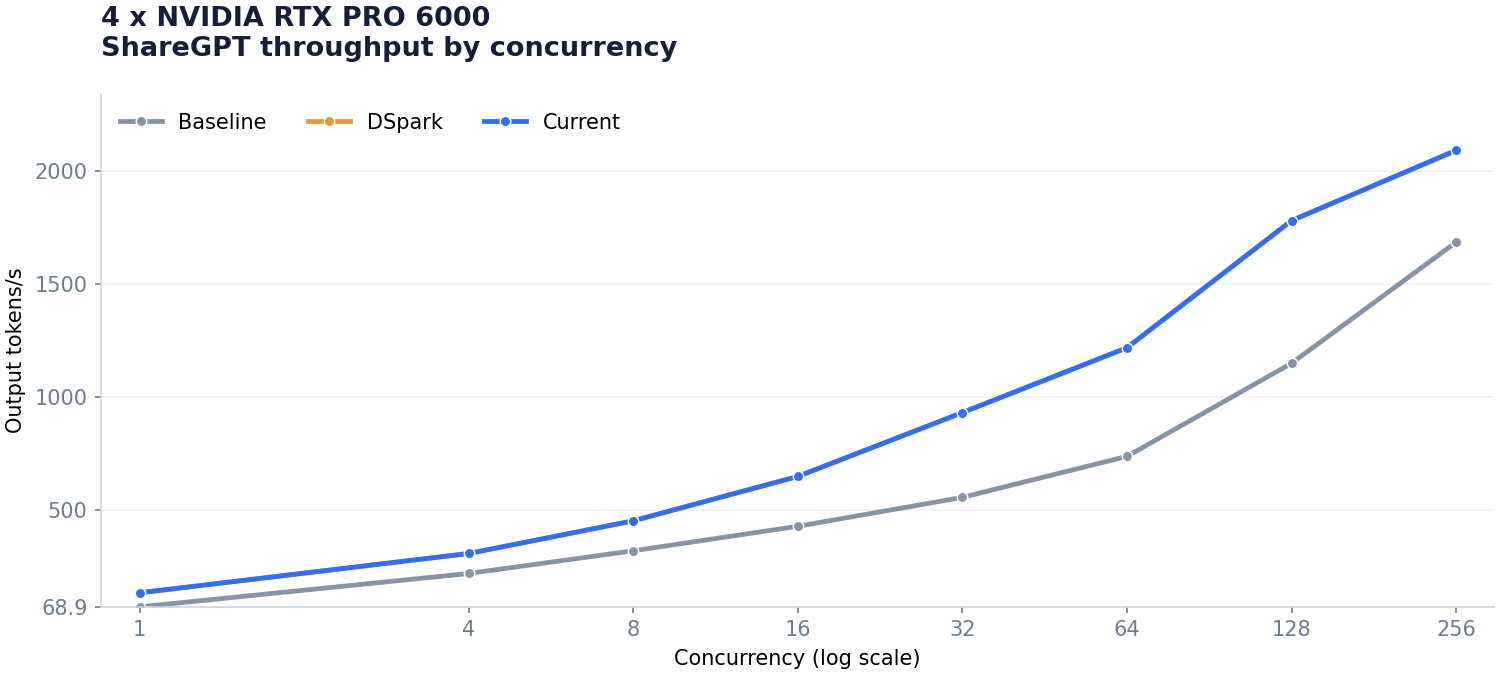
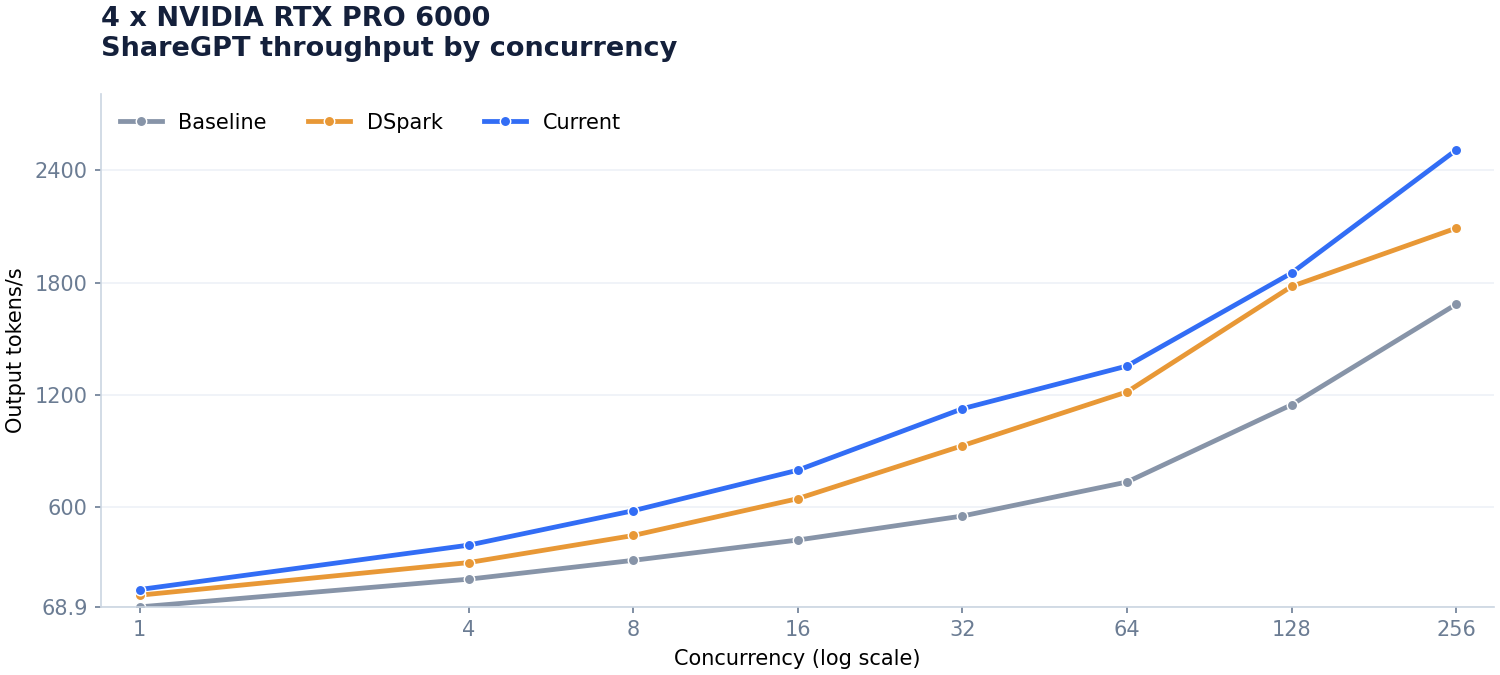
Extend four GPU expert kernels

diff --git a/4-nvidia-rtx-pro-6000/CHANGELOG.md b/4-nvidia-rtx-pro-6000/CHANGELOG.md
@@ -4,11 +4,9 @@ The patch is cumulative against `vllm/vllm-openai:v0.32.0`; every working milest
 
 FlashInfer 0.7.1 replaces the bundled 0.7.0.post1 for runtime page-size support, and both the sm120 compatibility patch and `--block-size 64` are required.
 
-## 1. DSpark decoding
+## 2. Ninety-six local experts
 
-- Reuse three-token adaptive DSpark with local argmax reduction to verify multiple tokens per target pass without gathering the full vocabulary.
-- Raise GPU memory utilization to 97% because DSpark's larger CUDA graph allocation leaves no KV-cache blocks at the default 92%.
--    --enable-expert-parallel
+- Extend the small-batch expert kernels to 96 local experts because TP4 previously fell back to DeepGEMM's 128-row padding.
 
 Requirements, on a fresh vLLM image:
 
@@ -43,18 +41,19 @@ vllm serve deepseek-ai/DeepSeek-V4.1-Flash-1017 \
 
 | Concurrency | Prompts | Output t/s | p95 TTFT (ms) | p95 TPOT (ms) |
 |---:|---:|---:|---:|---:|
-| 1 | 128 | 131.3 | 134.1 | 9.31 |
-| 4 | 128 | 305.4 | 139.3 | 14.95 |
-| 8 | 128 | 450.0 | 232.0 | 20.57 |
-| 16 | 128 | 646.7 | 306.9 | 29.31 |
-| 32 | 128 | 929.3 | 433.6 | 36.76 |
-| 64 | 128 | 1216.4 | 788.1 | 50.59 |
-| 128 | 256 | 1779.2 | 1669.4 | 76.92 |
-| 256 | 512 | 2090.1 | 5044.1 | 513.58 |
+| 1 | 128 | 161.5 | 134.2 | 7.58 |
+| 4 | 128 | 398.5 | 127.7 | 12.47 |
+| 8 | 128 | 582.3 | 227.3 | 15.83 |
+| 16 | 128 | 798.6 | 284.7 | 23.55 |
+| 32 | 128 | 1126.5 | 498.2 | 32.29 |
+| 64 | 128 | 1354.5 | 876.9 | 54.17 |
+| 128 | 256 | 1850.7 | 1527.0 | 79.03 |
+| 256 | 512 | 2506.8 | 2850.4 | 141.25 |
 
 ## Accepted progress
 
 | Stage | Change | c1 t/s | Revision |
 |---:|---|---:|---|
 | 0 | Four-GPU baseline | 68.9 | [`98e3fb6`](https://github.com/alvarobartt/DeepSeek-V4.1-Flash-RTX-PRO-6000/tree/98e3fb632bb37dea066d2f7d9cb6f1b4a436cb4d) |
-| 1 | DSpark decoding | 131.3 | This revision |
+| 1 | DSpark decoding | 131.3 | [`dee02d3`](https://github.com/alvarobartt/DeepSeek-V4.1-Flash-RTX-PRO-6000/tree/dee02d3567a50684bf4abb462d28390b3c3c9460) |
+| 2 | Ninety-six local experts | 161.5 | This revision |

diff --git a/README.md b/README.md
@@ -34,14 +34,14 @@ See the detailed changelog in [`8-nvidia-rtx-pro-6000/CHANGELOG.md`](8-nvidia-rt
 
 | Concurrency | Baseline t/s [^4gpu-baseline] | Baseline + DSpark t/s | Current t/s |
 |---:|---:|---:|---:|
-| 1 | 68.9 | **131.3 (+90.6%)** | **131.3 (+0.0%)** |
-| 4 | 216.8 | **305.4 (+40.9%)** | **305.4 (+0.0%)** |
-| 8 | 317.3 | **450.0 (+41.8%)** | **450.0 (+0.0%)** |
-| 16 | 425.8 | **646.7 (+51.9%)** | **646.7 (+0.0%)** |
-| 32 | 553.8 | **929.3 (+67.8%)** | **929.3 (+0.0%)** |
-| 64 | 735.3 | **1216.4 (+65.4%)** | **1216.4 (+0.0%)** |
-| 128 | 1147.5 | **1779.2 (+55.1%)** | **1779.2 (+0.0%)** |
-| 256 | 1683.6 | **2090.1 (+24.1%)** | **2090.1 (+0.0%)** |
+| 1 | 68.9 | 131.3 (+90.6%) | **161.5 (+23.0%)** |
+| 4 | 216.8 | 305.4 (+40.9%) | **398.5 (+30.5%)** |
+| 8 | 317.3 | 450.0 (+41.8%) | **582.3 (+29.4%)** |
+| 16 | 425.8 | 646.7 (+51.9%) | **798.6 (+23.5%)** |
+| 32 | 553.8 | 929.3 (+67.8%) | **1126.5 (+21.2%)** |
+| 64 | 735.3 | 1216.4 (+65.4%) | **1354.5 (+11.4%)** |
+| 128 | 1147.5 | 1779.2 (+55.1%) | **1850.7 (+4.0%)** |
+| 256 | 1683.6 | 2090.1 (+24.1%) | **2506.8 (+19.9%)** |
 
 ![Accepted ShareGPT c1 throughput](4-nvidia-rtx-pro-6000/throughput.png)
 
